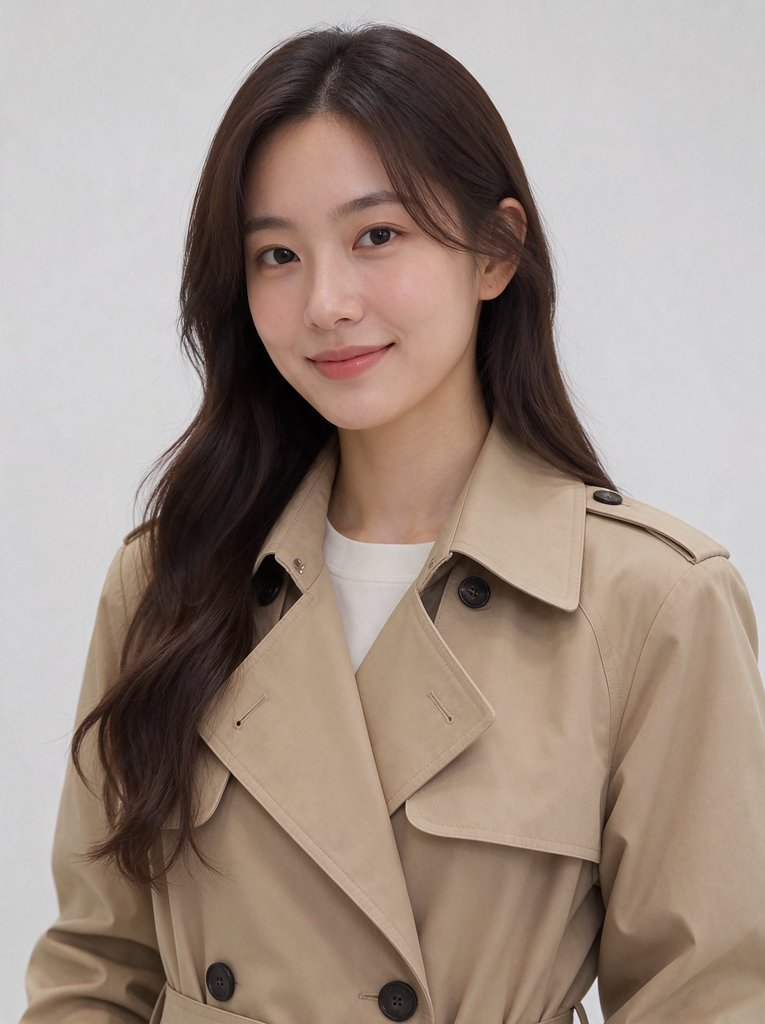
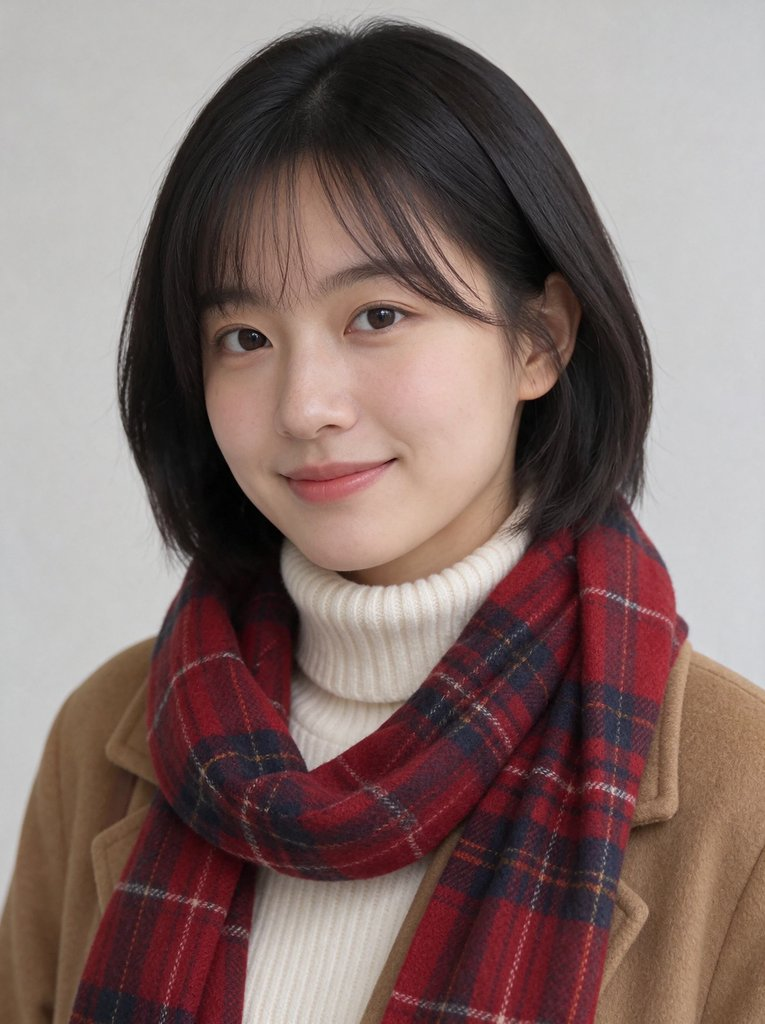
12월 스터디에 맞춰 겨울로, K-pop 세트는 새로 디자인한 다락방
- 예시 인물 네 명의 옷을 겨울옷으로 (울코트와 머플러, 패딩 파카, 숏패딩, 터틀넥과 울 코트)
- 장소도 모두 겨울로: 눈 남은 골목, 눈 덮인 침엽수 숲, 창밖에 눈 내리는 오피스
- K-pop 세트는 '작은 방' 콘셉트로 새로 디자인한 다락방. 미리 만든 세트 사진(site/assets/places/kpop_attic.jpg)을
  유닛 1 장소 스텝에서 두 번째 참고 이미지로 함께 보냄 (예시의 placeRef)
- 유닛 1-2 한글 예시: '눈꽃숲 1km' 표지판, 다락방 브라운관 TV의 '게임 시작'
- 예시 사진 2장과 예시 비교 이미지를 겨울 버전으로 다시 생성

diff --git a/site/content/lv1.js b/site/content/lv1.js
@@ -5,28 +5,28 @@
 // four places, and step 3 recommends the place that matches the person picked in step 2.
 const PERSON_EXAMPLES = [
   {
-    label: "20대 · 트렌치코트",
+    label: "20대 · 울코트",
     pair: "street",
     pairLabel: "길거리",
-    prompt: "20대 초반 한국 여성. 검은 단발머리에 가벼운 앞머리. 베이지 트렌치코트, 흰 니트, 연청 바지, 흰 운동화, 어깨에 작은 갈색 가방. 카메라를 보며 살짝 웃는 표정. 머리부터 발끝까지 보이는 전신, 정면에 가까운 자세. 밝은 회색 무지 배경. 부드러운 자연광, 실사 사진.",
+    prompt: "20대 초반 한국 여성. 검은 단발머리에 가벼운 앞머리. 카멜색 울 롱코트, 크림색 터틀넥 니트, 빨간 체크 머플러, 연청 바지, 흰 운동화, 어깨에 작은 갈색 가방. 카메라를 보며 살짝 웃는 표정. 머리부터 발끝까지 보이는 전신, 정면에 가까운 자세. 밝은 회색 무지 배경. 부드러운 자연광, 실사 사진.",
   },
   {
     label: "20대 · 숲속 여행자",
     pair: "forest",
     pairLabel: "숲",
-    prompt: "20대 후반 한국 남성 여행자. 덥수룩한 검은 머리와 짧은 수염. 모자가 달린 카키색 롱코트, 두툼한 니트 목도리, 낡은 갈색 가죽 부츠. 등에 큰 배낭을 메고 한 손에 작은 랜턴을 들었다. 호기심 어린 표정. 머리부터 발끝까지 보이는 전신, 정면. 연한 회색 무지 배경. 부드러운 조명, 실사 사진.",
+    prompt: "20대 후반 한국 남성 여행자. 덥수룩한 검은 머리와 짧은 수염. 모자가 달린 카키색 두꺼운 패딩 파카, 회색 털모자, 두툼한 니트 목도리와 털장갑, 낡은 갈색 가죽 방한 부츠. 등에 큰 배낭을 메고 한 손에 작은 랜턴을 들었다. 호기심 어린 표정. 머리부터 발끝까지 보이는 전신, 정면. 연한 회색 무지 배경. 부드러운 조명, 실사 사진.",
   },
   {
     label: "20대 · K-pop 아이돌",
     pair: "kpop",
     pairLabel: "K-pop 세트",
-    prompt: "20대 초반 한국 여성, K-pop 아이돌 스타일. 은색으로 염색한 긴 생머리. 반짝이는 은색 크롭 재킷, 검은 와이드 팬츠, 굵은 체인 목걸이, 두꺼운 밑창의 흰 부츠. 자신감 있는 눈빛으로 카메라를 본다. 머리부터 발끝까지 보이는 전신, 정면. 검은색 무지 배경. 깔끔한 스튜디오 조명, 실사 사진.",
+    prompt: "20대 초반 한국 여성, K-pop 아이돌 스타일. 은색으로 염색한 긴 생머리. 반짝이는 은색 숏패딩, 검은 와이드 팬츠, 굵은 체인 목걸이, 두꺼운 밑창의 흰 퍼 부츠. 자신감 있는 눈빛으로 카메라를 본다. 머리부터 발끝까지 보이는 전신, 정면. 검은색 무지 배경. 깔끔한 스튜디오 조명, 실사 사진.",
   },
   {
     label: "30대 · 회사원",
     pair: "office",
     pairLabel: "오피스",
-    prompt: "30대 한국 남성 회사원. 단정하게 넘긴 짧은 머리. 하늘색 셔츠에 남색 니트 조끼, 회색 슬랙스, 목에 건 사원증, 한 손에 텀블러. 조금 피곤하지만 친근한 미소. 머리부터 발끝까지 보이는 전신, 정면. 밝은 회색 무지 배경. 부드러운 사무실 조명, 실사 사진.",
+    prompt: "30대 한국 남성 회사원. 단정하게 넘긴 짧은 머리. 회색 터틀넥 니트에 차콜 슬랙스, 팔에 걸친 남색 울 코트, 목에 건 사원증, 한 손에 텀블러. 조금 피곤하지만 친근한 미소. 머리부터 발끝까지 보이는 전신, 정면. 밝은 회색 무지 배경. 부드러운 사무실 조명, 실사 사진.",
   },
 ];
 
@@ -34,22 +34,24 @@ const PLACE_EXAMPLES = [
   {
     key: "street",
     label: "한국의 길거리",
-    prompt: "첨부한 이미지의 인물을 그대로 둔다(얼굴, 머리, 옷이 같아야 한다). 서울의 좁은 상점가 골목에서 횡단보도를 건너는 장면. 양옆에 한글 간판이 달린 가게들, 머리 위로 얽힌 전깃줄, 회색 보도블록. 인물은 화면 가운데 전신, 눈높이 카메라. 실사 사진.",
+    prompt: "첨부한 이미지의 인물을 그대로 둔다(얼굴, 머리, 옷이 같아야 한다). 한겨울 오후, 서울의 좁은 상점가 골목에서 횡단보도를 건너는 장면. 양옆에 한글 간판이 달린 가게들, 머리 위로 얽힌 전깃줄, 길가와 지붕에 조금 남은 눈. 차가운 공기에 입김이 하얗게 보인다. 인물은 화면 가운데 전신, 눈높이 카메라. 실사 사진.",
   },
   {
     key: "forest",
     label: "신비로운 숲",
-    prompt: "첨부한 이미지의 인물을 그대로 둔다(얼굴, 머리, 옷이 같아야 한다). 안개가 깔린 깊은 숲, 이끼 낀 거대한 나무 사이 오솔길을 걸으며 위를 올려다보는 장면. 나뭇잎 사이로 빛줄기가 내려온다. 전신, 조금 낮은 곳에서 올려다보는 카메라. 실사 사진.",
+    prompt: "첨부한 이미지의 인물을 그대로 둔다(얼굴, 머리, 옷이 같아야 한다). 눈 덮인 깊은 겨울 숲, 하얀 눈이 쌓인 거대한 침엽수 사이 오솔길을 걸으며 위를 올려다보는 장면. 가지 사이로 차가운 빛줄기가 내려오고 공기 중에 눈가루가 반짝인다. 전신, 조금 낮은 곳에서 올려다보는 카메라. 실사 사진.",
   },
   {
     key: "kpop",
-    label: "K-pop 뮤비 세트",
-    prompt: "첨부한 이미지의 인물을 그대로 둔다(얼굴, 머리, 옷이 같아야 한다). 실내 K-pop 뮤직비디오 세트. 반짝이는 검은 바닥, 벽을 따라 이어진 네온 라인 조명, 바닥에 깔린 옅은 연기. 인물이 세트 한가운데에서 안무 동작의 한 순간처럼 포즈를 잡는다. 전신, 정면 와이드. 실사 사진.",
+    label: "K-pop 뮤비 세트 · 다락방",
+    // our own set photo (made 2026-11-14, no people), attached as a second (location) reference
+    placeRef: { src: "assets/places/kpop_attic.jpg", label: "미리 만들어 둔 세트 사진 · 이 방에 내 인물을 넣어요" },
+    prompt: "첫 번째 이미지의 인물을 그대로 둔다(얼굴, 머리, 옷이 같아야 한다). 두 번째 이미지는 장소 참고다: 이 다락방의 경사진 천장, 벽, 러그, 빈백, TV, 꼬마전구, 둥근 창을 그대로 쓴다. 창밖으로 눈이 내리는 겨울 오후, 꼬마전구가 따뜻하게 켜져 있다. 인물이 러그 위에서 안무 동작의 한 순간처럼 포즈를 잡는다. 전신, 정면 와이드. 실사 사진.",
   },
   {
     key: "office",
     label: "오피스 자리",
-    prompt: "첨부한 이미지의 인물을 그대로 둔다(얼굴, 머리, 옷이 같아야 한다). 창가 사무실 책상에 앉아 노트북을 보다가 고개를 든 순간. 책상 위에 모니터, 서류 더미, 머그컵. 뒤로 다른 책상들이 흐릿하게 보인다. 허리 위가 보이는 미디엄 샷. 실사 사진.",
+    prompt: "첨부한 이미지의 인물을 그대로 둔다(얼굴, 머리, 옷이 같아야 한다). 창가 사무실 책상에 앉아 노트북을 보다가 고개를 든 순간. 창밖으로 눈이 내리는 겨울 오후. 책상 위에 모니터, 서류 더미, 김이 오르는 머그컵. 뒤로 다른 책상들이 흐릿하게 보인다. 허리 위가 보이는 미디엄 샷. 실사 사진.",
   },
 ];
 
@@ -71,13 +73,13 @@ const SHOT_EXAMPLES = [
 // step 4: the unit 1 place again, without people, with one short Korean text. `key` matches the person's pair.
 const TEXT_EXAMPLES = [
   { key: "street", label: "길거리 · 간판", pairLabel: "'청춘분식'",
-    prompt: "서울의 좁은 상점가 골목, 사람 없음. 가운데 분식집 간판에 '청춘분식'이라는 한글이 크게 적혀 있다. 양옆에 작은 가게들, 머리 위 전깃줄, 회색 보도블록. 맑은 오후 빛, 눈높이 카메라. 실사 사진." },
-  { key: "forest", label: "숲 · 표지판", pairLabel: "'안개숲 1km'",
-    prompt: "안개가 깔린 깊은 숲속 오솔길, 사람 없음. 길가의 낡은 나무 표지판에 '안개숲 1km'라는 한글이 새겨져 있다. 이끼 낀 거대한 나무들, 나뭇잎 사이로 내려오는 빛줄기. 실사 사진." },
-  { key: "kpop", label: "뮤비 세트 · LED", pairLabel: "'새벽 세시'",
-    prompt: "실내 K-pop 뮤직비디오 세트, 사람 없음. 무대 뒤 큰 LED 화면에 '새벽 세시'라는 한글이 빛난다. 반짝이는 검은 바닥, 네온 라인 조명, 옅은 연기. 정면 와이드. 실사 사진." },
+    prompt: "한겨울 서울의 좁은 상점가 골목, 사람 없음. 가운데 분식집 간판에 '청춘분식'이라는 한글이 크게 적혀 있다. 양옆에 작은 가게들, 머리 위 전깃줄, 길가와 지붕에 조금 남은 눈. 맑고 차가운 오후 빛, 눈높이 카메라. 실사 사진." },
+  { key: "forest", label: "숲 · 표지판", pairLabel: "'눈꽃숲 1km'",
+    prompt: "눈 덮인 깊은 겨울 숲속 오솔길, 사람 없음. 길가의 낡은 나무 표지판에 '눈꽃숲 1km'라는 한글이 새겨져 있고 표지판 위에 눈이 소복이 쌓였다. 눈 쌓인 거대한 침엽수들, 가지 사이로 내려오는 차가운 빛줄기. 실사 사진." },
+  { key: "kpop", label: "뮤비 세트 · TV", pairLabel: "'게임 시작'",
+    prompt: "K-pop 뮤직비디오 세트로 꾸민 작은 다락방, 사람 없음. 경사진 흰 나무 천장, 따뜻한 크림색 벽, 연보라 러그와 빈백. 낮은 원목 테이블 위 작은 브라운관 TV 화면에 '게임 시작'이라는 한글이 픽셀 글씨로 떠 있다. 벽에는 폴라로이드 사진과 꼬마전구만 있다. 둥근 창밖으로 눈이 내린다. 정면 와이드. 실사 사진." },
   { key: "office", label: "오피스 · 포스트잇", pairLabel: "'3시 회의'",
-    prompt: "창가 사무실 책상, 사람 없음. 모니터 가장자리에 붙은 노란 포스트잇에 '3시 회의'라고 손글씨로 적혀 있다. 노트북, 서류 더미, 머그컵, 뒤로 흐릿한 다른 책상들. 실사 사진." },
+    prompt: "창가 사무실 책상, 사람 없음. 모니터 가장자리에 붙은 노란 포스트잇에 '3시 회의'라고 손글씨로 적혀 있다. 노트북, 서류 더미, 김이 오르는 머그컵, 창밖으로 내리는 눈, 뒤로 흐릿한 다른 책상들. 실사 사진." },
 ];
 
 // step 5: change exactly one thing in the unit 1 place shot
@@ -94,15 +96,15 @@ const HF_CREDITS = { seedream_5_5: null, gpt_image_2_6: null, nano_banana_2_1: n
 const CREDITS_CHECKED = "";
 
 // pre-made comparisons (one per compare step), made 2026-11-14 with the three real models from the first example
-// of each step (trench-coat person / street pair). Generation seconds as measured then.
+// of each step (wool-coat person / street pair; the study runs in December, so winter clothes). Seconds as measured.
 const exampleSet = (id, label, ref, seconds) => ({
   label, ref, seconds,
   images: Object.fromEntries(["seedream_5_5", "gpt_image_2_6", "nano_banana_2_1"].map((m) => [m, `assets/examples/${id}_${m}.jpg`])),
 });
-const EXAMPLE_REAL = exampleSet("real", "트렌치코트 인물 프롬프트", null, { seedream_5_5: 12, gpt_image_2_6: 15, nano_banana_2_1: 15 });
-const EXAMPLE_IDENTITY = exampleSet("identity", "얼굴 클로즈업", "assets/sample_person.jpg", { seedream_5_5: 19, gpt_image_2_6: 18, nano_banana_2_1: 15 });
-const EXAMPLE_HANGUL = exampleSet("hangul", "길거리 · '청춘분식' 간판", null, { seedream_5_5: 13, gpt_image_2_6: 30, nano_banana_2_1: 15 });
-const EXAMPLE_EDIT = exampleSet("edit", "겉옷 색만 남색으로", "assets/sample_place.jpg", { seedream_5_5: 14, gpt_image_2_6: 28, nano_banana_2_1: 15 });
+const EXAMPLE_REAL = exampleSet("real", "울코트 인물 프롬프트", null, { seedream_5_5: 13, gpt_image_2_6: 21, nano_banana_2_1: 16 });
+const EXAMPLE_IDENTITY = exampleSet("identity", "얼굴 클로즈업", "assets/sample_person.jpg", { seedream_5_5: 16, gpt_image_2_6: 19, nano_banana_2_1: 13 });
+const EXAMPLE_HANGUL = exampleSet("hangul", "겨울 길거리 · '청춘분식' 간판", null, { seedream_5_5: 19, gpt_image_2_6: 29, nano_banana_2_1: 16 });
+const EXAMPLE_EDIT = exampleSet("edit", "겉옷 색만 남색으로", "assets/sample_place.jpg", { seedream_5_5: 22, gpt_image_2_6: 25, nano_banana_2_1: 13 });
 
 // unit 1 results that unit 2 builds on (store keys written by unit 1 blocks)
 const U1_PERSON_PROMPT = "lv1:u1:gen:person:prompt";
@@ -173,7 +175,7 @@ export const LEVEL = {
               parts: [
                 { label: "누가", text: "20대 초반 한국 여성", color: "a" },
                 { label: "얼굴 · 머리", text: "검은 단발머리, 가벼운 앞머리", color: "b" },
-                { label: "옷 · 소품", text: "베이지 트렌치코트, 흰 운동화, 작은 가방", color: "c" },
+                { label: "옷 · 소품", text: "카멜색 울 코트, 체크 머플러, 작은 가방", color: "c" },
                 { label: "표정 · 자세", text: "카메라를 보며 살짝 웃음", color: "d" },
                 { label: "구도", text: "머리부터 발끝까지 전신, 정면", color: "e" },
                 { label: "배경", text: "밝은 회색 무지 배경", color: "f" },
@@ -218,7 +220,8 @@ export const LEVEL = {
                 "스텝 2에서 만든 인물 사진이 <b>참고 이미지</b>로 자동으로 들어가요.",
                 "<b>인물과 어울리는 장소</b>를 골라요. 옷차림, 나이, 하는 일이 장소와 맞아야 자연스러워요. 회사원은 오피스, 아이돌은 뮤비 세트처럼요.",
                 "프롬프트 첫 문장에 <b>\"첨부한 인물을 그대로 둔다\"</b>를 꼭 넣어요. 이 문장이 없으면 다른 사람이 나오기 쉬워요.",
-                "장소는 <b>눈에 보이는 물건 세 가지</b> 이상으로 묘사해요. 예: 한글 간판, 전깃줄, 보도블록.",
+                "장소는 <b>눈에 보이는 물건 세 가지</b> 이상으로 묘사해요. 예: 한글 간판, 전깃줄, 길가에 쌓인 눈.",
+                "장소도 <b>사진으로</b> 넣을 수 있어요. K-pop 예시는 미리 만들어 둔 세트 사진(작은 다락방)이 <b>장소 참고 이미지</b>로 함께 들어가요. 글로 설명하는 것보다 훨씬 똑같이 나와요.",
               ],
             },
             {
@@ -227,7 +230,7 @@ export const LEVEL = {
               parts: [
                 { label: "인물 유지", text: "첨부한 인물을 그대로 둔다", color: "a" },
                 { label: "어디서 · 무엇을", text: "상점가 골목에서 횡단보도를 건넌다", color: "b" },
-                { label: "보이는 물건", text: "한글 간판, 전깃줄, 보도블록", color: "c" },
+                { label: "보이는 물건", text: "한글 간판, 전깃줄, 길가에 쌓인 눈", color: "c" },
                 { label: "카메라", text: "인물은 가운데 전신, 눈높이", color: "e" },
                 { label: "스타일", text: "실사 사진", color: "g" },
               ],

diff --git a/site/js/app.js b/site/js/app.js
@@ -333,10 +333,11 @@ function generatorBlock(b, ctx) {
       <div class="gobox"><span class="status"></span><button class="btn primary go">이미지 만들기</button></div></div>
     <div class="results"></div></div>`);
   const ta = node.querySelector(".prompt");
+  const exIdxKey = k(ctx, "gen", b.id, "exi");    // the example the prompt came from (its placeRef is attached)
   let saved = store.get(pkey, "");
   if (!saved && recommended) {
-    const rec = b.examples.find((ex) => ex.key === recommended);
-    if (rec) { saved = rec.prompt; store.set(pkey, saved); }
+    const ri = b.examples.findIndex((ex) => ex.key === recommended);
+    if (ri >= 0) { saved = b.examples[ri].prompt; store.set(pkey, saved); store.set(exIdxKey, ri); }
   }
   ta.value = saved;
   ta.oninput = () => store.set(pkey, ta.value);
@@ -344,10 +345,29 @@ function generatorBlock(b, ctx) {
     const ex = b.examples[+btn.dataset.i];
     ta.value = ex.prompt; store.set(pkey, ex.prompt);
     store.set(exkey, { label: ex.label, pair: ex.pair || ex.key || null });
+    store.set(exIdxKey, +btn.dataset.i);
     node.querySelectorAll(".ex").forEach((x) => x.classList.toggle("on", x === btn));
+    showPlace();
   }));
   const ref = b.ref ? refPicker(b, ctx, k(ctx, "gen", b.id, "ref")) : null;
   if (ref) node.querySelector(".slot-ref").appendChild(ref.node);
+  // location reference that belongs to an example (e.g. a set photo): second reference image, after the person
+  const placeRow = el(`<div class="refrow place-ref" hidden><div class="ref-thumb"></div><div class="ref-meta"><b>장소 참고 이미지</b>
+      <small class="ref-sub"></small><label class="use-place"><input type="checkbox" checked> 이 사진도 함께 넣기</label></div></div>`);
+  node.querySelector(".slot-ref").appendChild(placeRow);
+  const activePlace = () => { const ex = b.examples[store.get(exIdxKey, -1)]; return (ex && ex.placeRef) || null; };
+  function showPlace() {
+    const pr = activePlace();
+    placeRow.hidden = !pr;
+    if (pr) {
+      placeRow.querySelector(".ref-thumb").innerHTML = `<img src="${esc(pr.src)}" alt="">`;
+      placeRow.querySelector(".ref-sub").textContent = pr.label;
+      placeRow.querySelector("input").checked = true;
+    }
+  }
+  showPlace();
+  const exOn = store.get(exIdxKey, -1);
+  node.querySelectorAll(".ex").forEach((x) => x.classList.toggle("on", +x.dataset.i === exOn && b.examples[exOn].prompt === ta.value));
   const model = modelPicker(k(ctx, "gen", b.id, "model"));
   node.querySelector(".slot-models").appendChild(model.node);
   const aspect = aspectPicker(k(ctx, "gen", b.id, "aspect"), b.aspects, b.aspect);
@@ -368,6 +388,11 @@ function generatorBlock(b, ctx) {
       const r = await ref.current();
       if (!r && b.ref.required) return toast("참고 이미지가 없어요. 앞 스텝에서 먼저 만들어 주세요.");
       if (r) refs.push(r.dataUrl);
+    }
+    const pr = activePlace();
+    if (pr && placeRow.querySelector("input").checked) {
+      const img = await sampleImage(pr.src);
+      if (img) refs.push(img.dataUrl);
     }
     btn.disabled = true;
     status.start("만드는 중");

diff --git a/site/css/study.css b/site/css/study.css
@@ -153,6 +153,8 @@ textarea.prompt:focus { outline: 2px solid #b9dcb9; border-color: var(--green); 
 .ref-empty { width: 100%; height: 100%; display: grid; place-items: center; color: var(--muted); font-size: 13px; }
 .ref-meta small { display: block; color: var(--muted); font-size: 13px; }
 .ref-btns { display: flex; gap: 6px; margin-top: 6px; }
+.use-place { display: inline-flex; align-items: center; gap: 6px; font-size: 13.5px; margin-top: 6px; cursor: pointer; }
+.place-ref .ref-thumb { width: 116px; }
 
 .results { display: grid; grid-template-columns: repeat(auto-fill, minmax(150px, 1fr)); gap: 12px; margin-top: 18px; }
 .results .imgcard.big { grid-column: span 2; grid-row: span 2; }

diff --git a/site/README.md b/site/README.md
@@ -36,7 +36,7 @@ STUDY_IMAGE_PROVIDER=mock python server.py 8011               # 비용 0 목업 
 | `guide` | 제목 + 안내 목록 (굵게 등 HTML 허용) |
 | `anatomy` | 프롬프트 뼈대: 색깔 구간 + "합치면" 문장 |
 | `tip` | 초록 강조 팁 |
-| `generator` | 예시 프롬프트 칩 → 편집 → 모델 3개 중 선택 → 화면 비율 → 생성 → 결과 목록. `ref`가 있으면 앞 스텝 이미지를 참고 이미지로 자동 연결한다. `pairFrom`이 있으면 앞 스텝에서 고른 예시의 `pair`와 같은 `key`의 예시를 "내 인물과 어울려요"로 추천하고 미리 채운다 |
+| `generator` | 예시 프롬프트 칩 → 편집 → 모델 3개 중 선택 → 화면 비율 → 생성 → 결과 목록. `ref`가 있으면 앞 스텝 이미지를 참고 이미지로 자동 연결한다. `pairFrom`이 있으면 앞 스텝에서 고른 예시의 `pair`와 같은 `key`의 예시를 "내 인물과 어울려요"로 추천하고 미리 채운다. 예시에 `placeRef`(장소 사진)가 있으면 그 예시를 고를 때 두 번째 참고 이미지로 함께 보낸다 |
 | `ab` | 같은 참고 이미지 + 기본 문장 + A/B 한 줄씩(프리셋 칩)으로 두 장을 동시에 생성해 나란히 비교 |
 | `check` | 마무리 체크리스트 |
 | `pick` | 결과물 고르기 (이미지함에서 고르기, 직접 올리기, 내려받기) |
